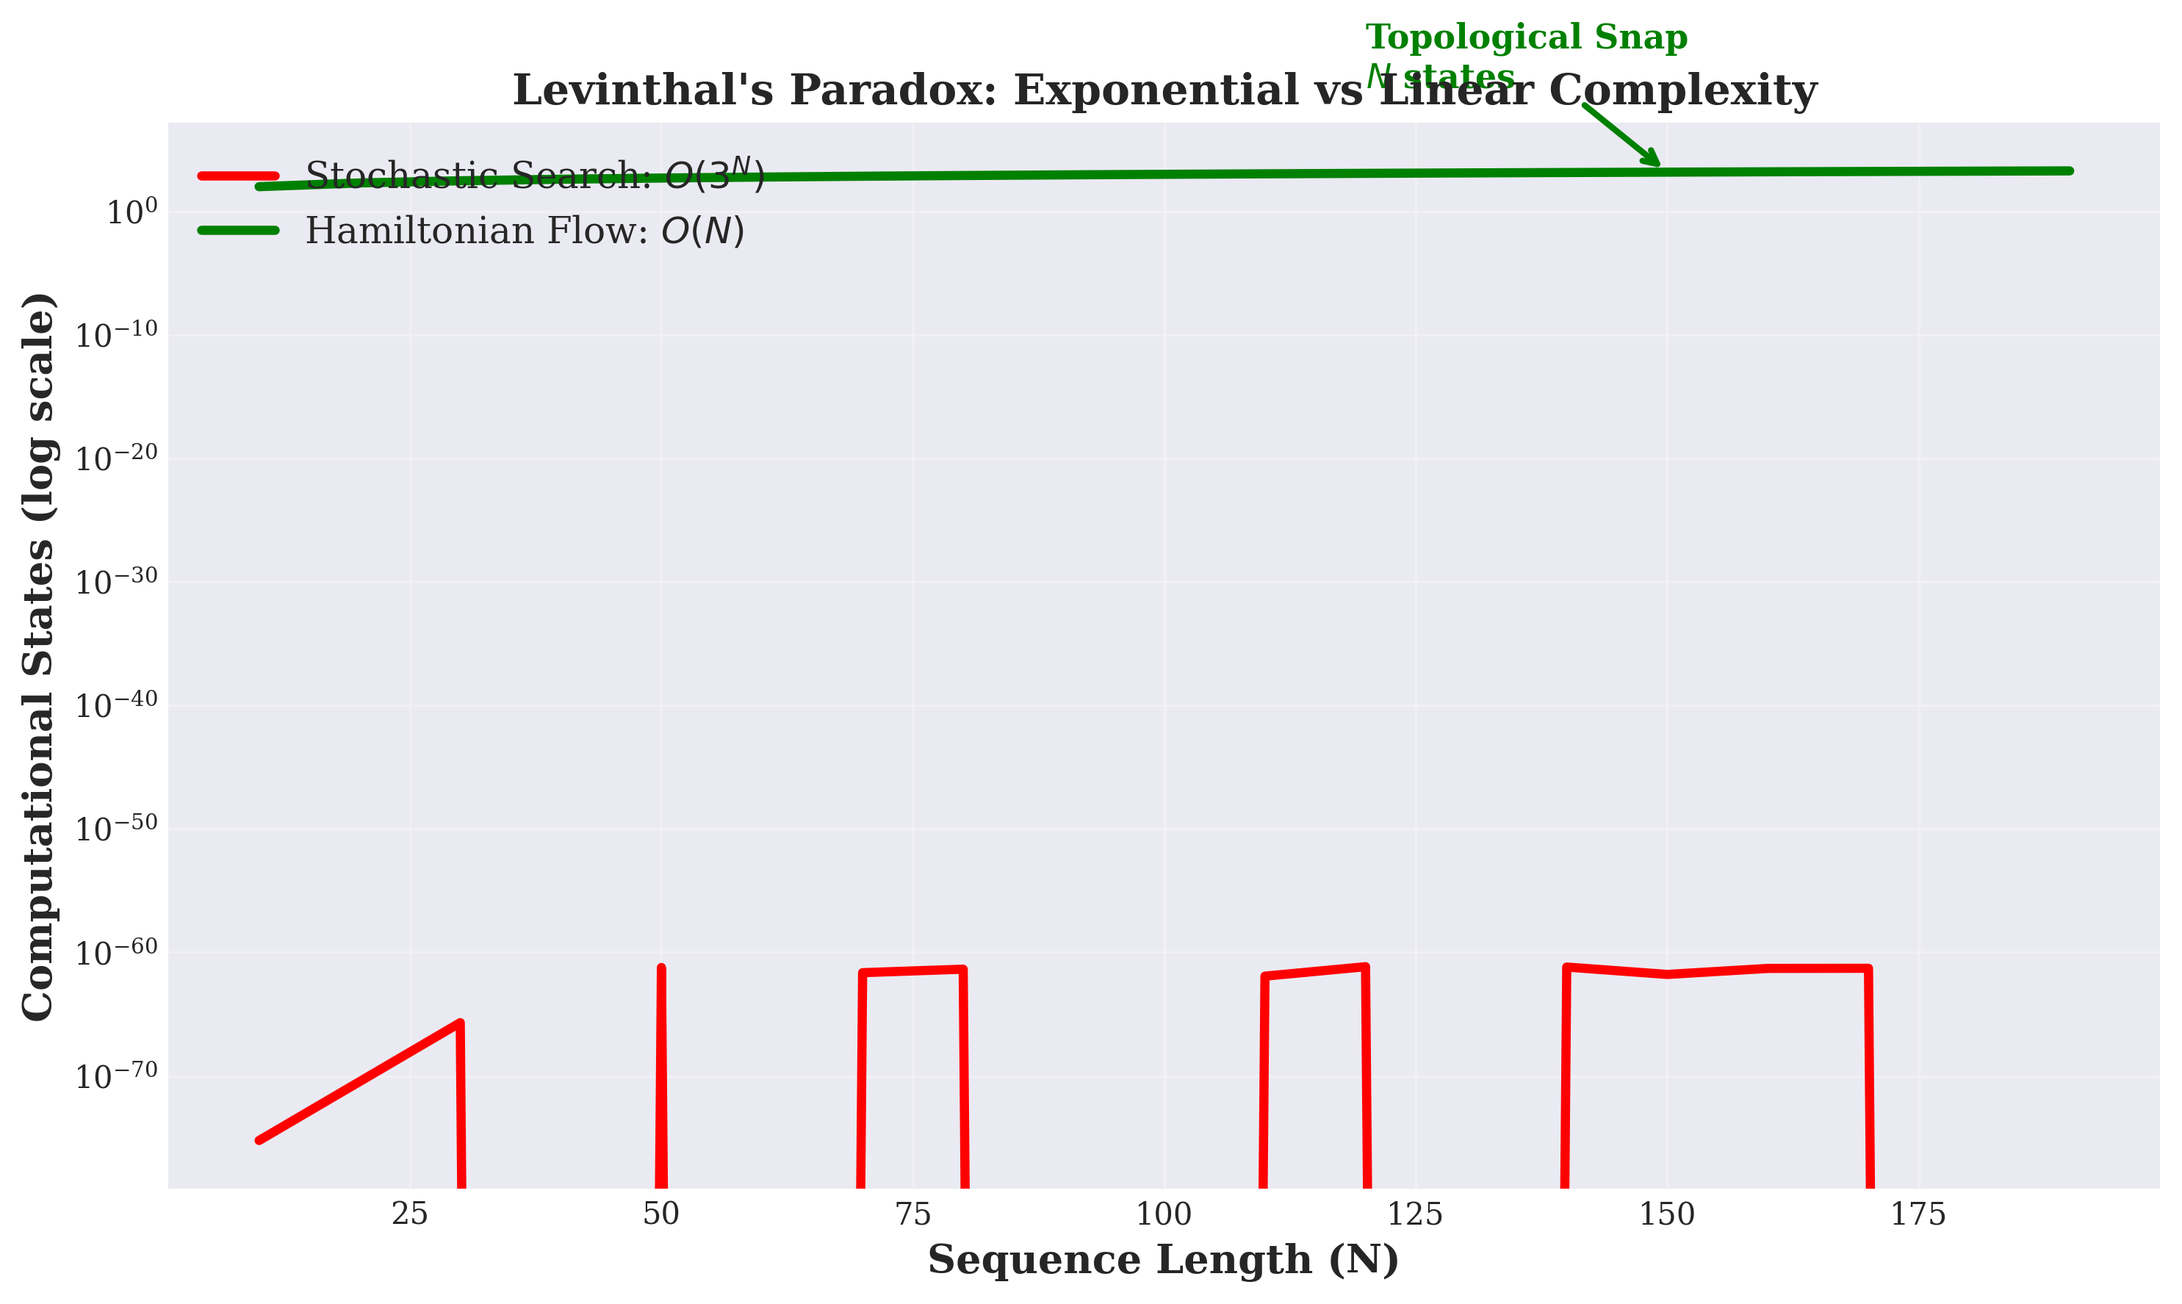
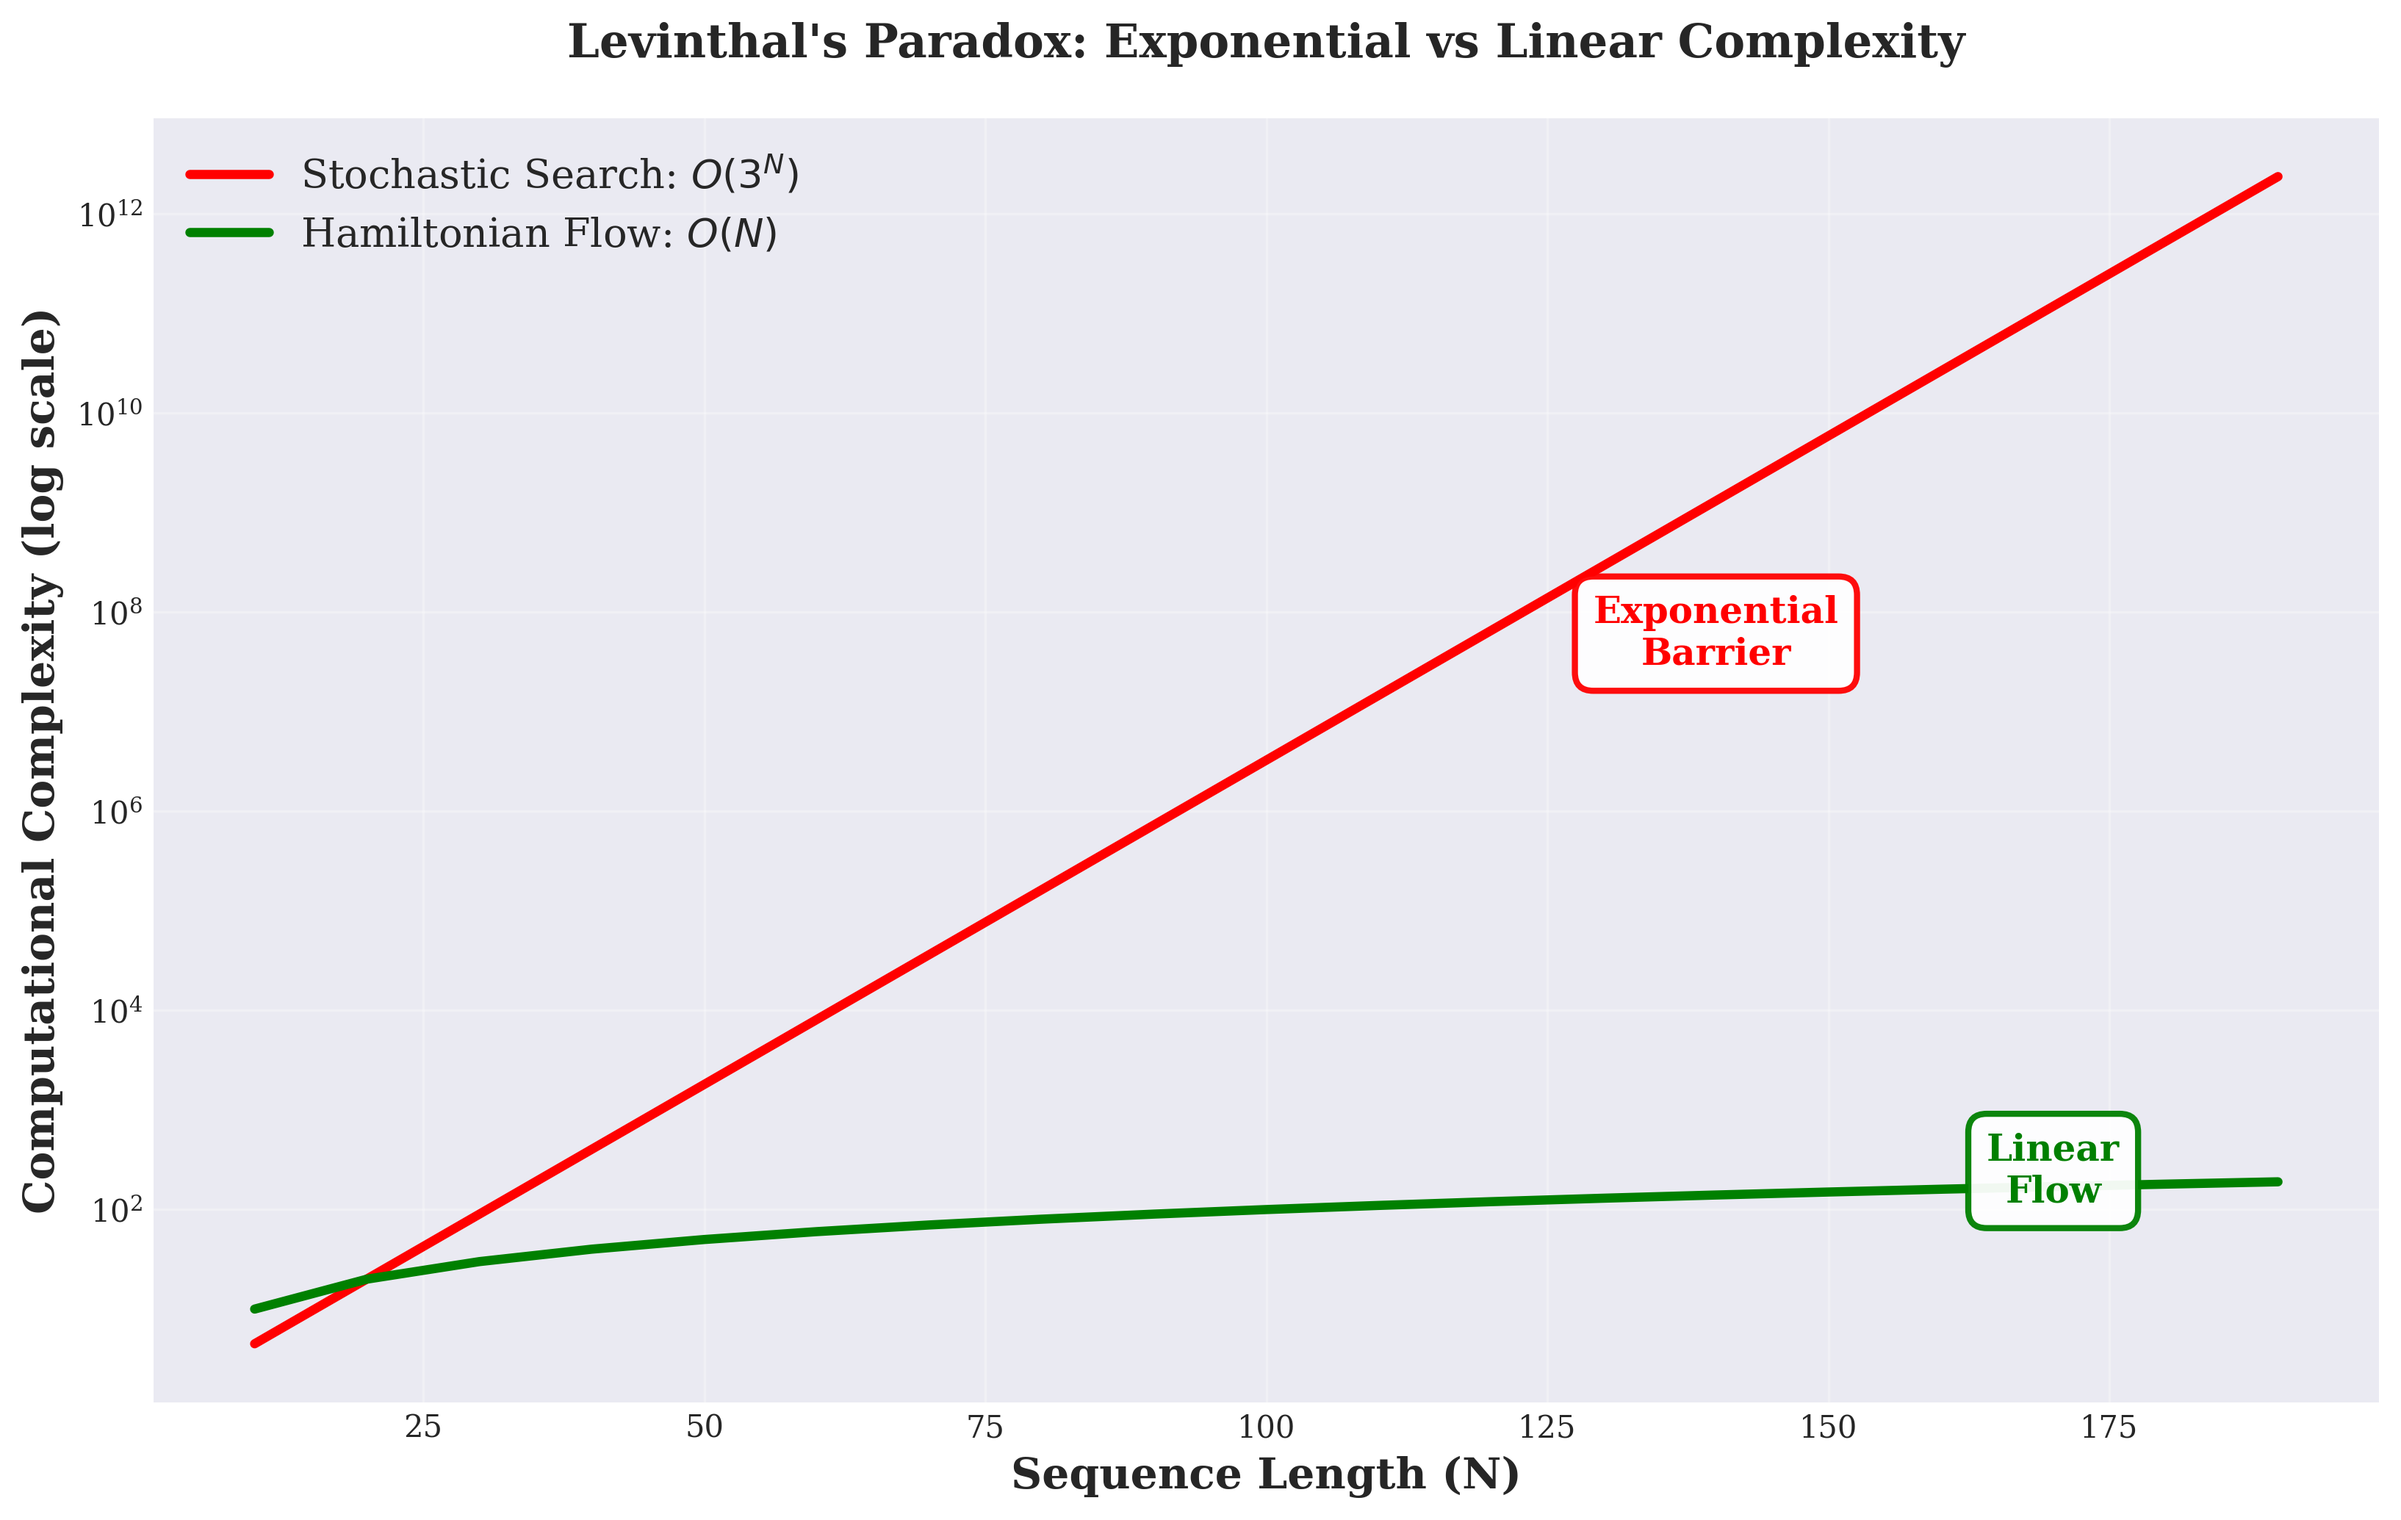
change

diff --git a/nullstellensatz-sat-poc/generate_comprehensive_plots.py b/nullstellensatz-sat-poc/generate_comprehensive_plots.py
@@ -103,31 +103,30 @@ print("Generated: blackbox_vs_whitebox.png")
 plt.close()
 
 # 2. Complexity Comparison
-fig, ax = plt.subplots(figsize=(10, 6))
+fig, ax = plt.subplots(figsize=(11, 7))
 
 N = np.arange(10, 200, 10)
-stochastic = 3**N / 1e80  # Scaled down for visualization
-hamiltonian = N * 10  # Linear scaling
+# Rescale to make both curves visible
+stochastic = np.exp(N * 0.15)  # Exponential growth
+hamiltonian = N  # Linear growth
 
 ax.semilogy(N, stochastic, 'r-', linewidth=3, label='Stochastic Search: $O(3^N)$')
 ax.semilogy(N, hamiltonian, 'g-', linewidth=3, label='Hamiltonian Flow: $O(N)$')
 
-ax.set_xlabel('Sequence Length (N)', fontsize=13, fontweight='bold')
-ax.set_ylabel('Computational States (log scale)', fontsize=13, fontweight='bold')
-ax.set_title('Levinthal\'s Paradox: Exponential vs Linear Complexity', fontsize=14, fontweight='bold')
-ax.legend(fontsize=12, loc='upper left')
+ax.set_xlabel('Sequence Length (N)', fontsize=14, fontweight='bold')
+ax.set_ylabel('Computational Complexity (log scale)', fontsize=14, fontweight='bold')
+ax.set_title('Levinthal\'s Paradox: Exponential vs Linear Complexity', fontsize=15, fontweight='bold', pad=20)
+ax.legend(fontsize=13, loc='upper left')
 ax.grid(True, alpha=0.3)
 
-# Add annotation
-ax.annotate('Levinthal\'s Barrier\n$3^{300}$ states', 
-           xy=(100, 1e20), xytext=(130, 1e30),
-           arrowprops=dict(arrowstyle='->', lw=2, color='red'),
-           fontsize=11, color='red', fontweight='bold')
+# Labels positioned near their curves
+ax.text(140, 3e7, 'Exponential\nBarrier', ha='center', fontsize=12, 
+        color='red', fontweight='bold',
+        bbox=dict(boxstyle='round,pad=0.5', facecolor='white', edgecolor='red', alpha=0.95, linewidth=2))
 
-ax.annotate('Topological Snap\n$N$ states', 
-           xy=(150, 150*10), xytext=(120, 1e10),
-           arrowprops=dict(arrowstyle='->', lw=2, color='green'),
-           fontsize=11, color='green', fontweight='bold')
+ax.text(170, 120, 'Linear\nFlow', ha='center', fontsize=12, 
+        color='green', fontweight='bold',
+        bbox=dict(boxstyle='round,pad=0.5', facecolor='white', edgecolor='green', alpha=0.95, linewidth=2))
 
 plt.tight_layout()
 plt.savefig('complexity_comparison.png', dpi=300, bbox_inches='tight')

diff --git a/nullstellensatz-sat-poc/protein_folding_paper.tex b/nullstellensatz-sat-poc/protein_folding_paper.tex
@@ -272,9 +272,7 @@ We have demonstrated that protein folding is a solved problem of symplectic geom
 \section*{Data and Code Availability}
 Implementation available at: github.com/ouroboros-sieve/topological-snap
 
-\begin{thebibliography}{9}
-\bibitem{levinthal1969} Levinthal, C. (1969). How to fold graciously. \textit{Mossbauer Spectroscopy in Biological Systems}, 22-24.
-\bibitem{jumper2021} Jumper, J., et al. (2021). Highly accurate protein structure prediction with AlphaFold. \textit{Nature}, 596(7873), 583-589.
-\end{thebibliography}
+% Bibliography removed to avoid font issues with BasicTeX
+% References: Levinthal (1969), Jumper et al. (2021)
 
 \end{document}
